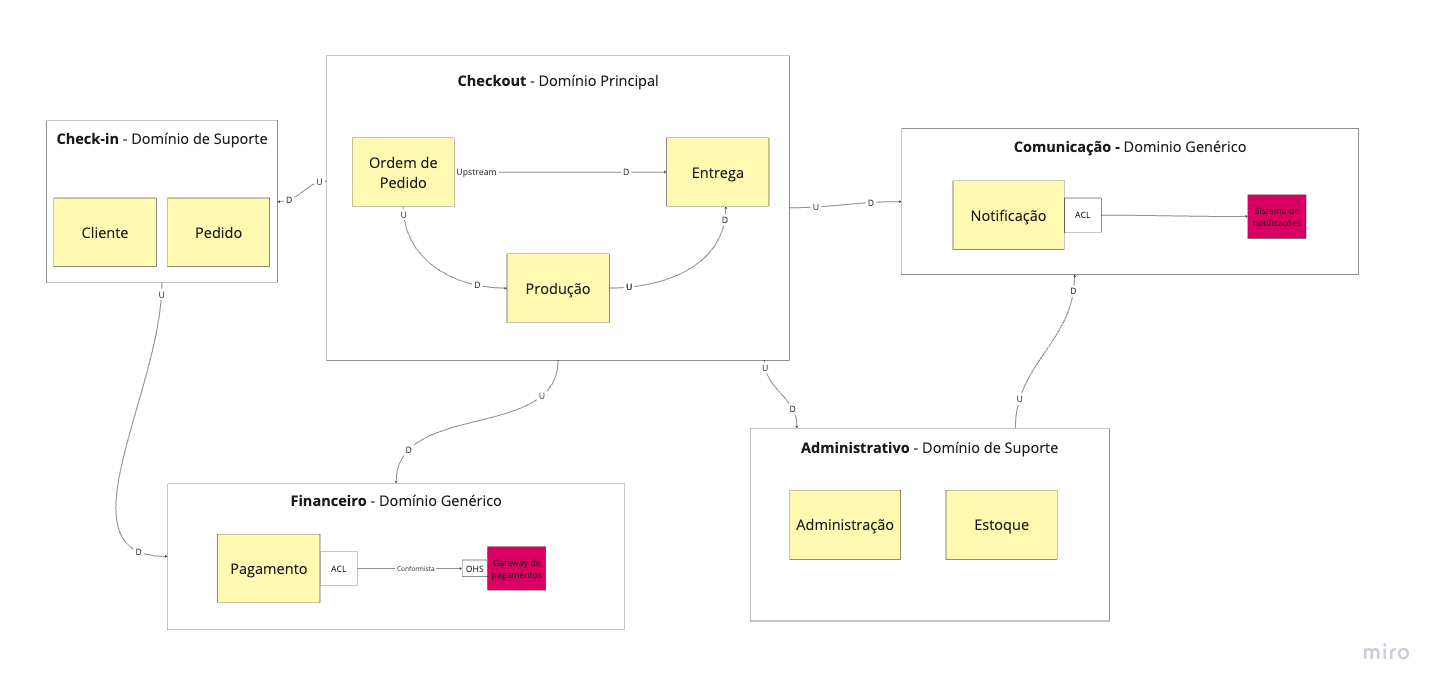
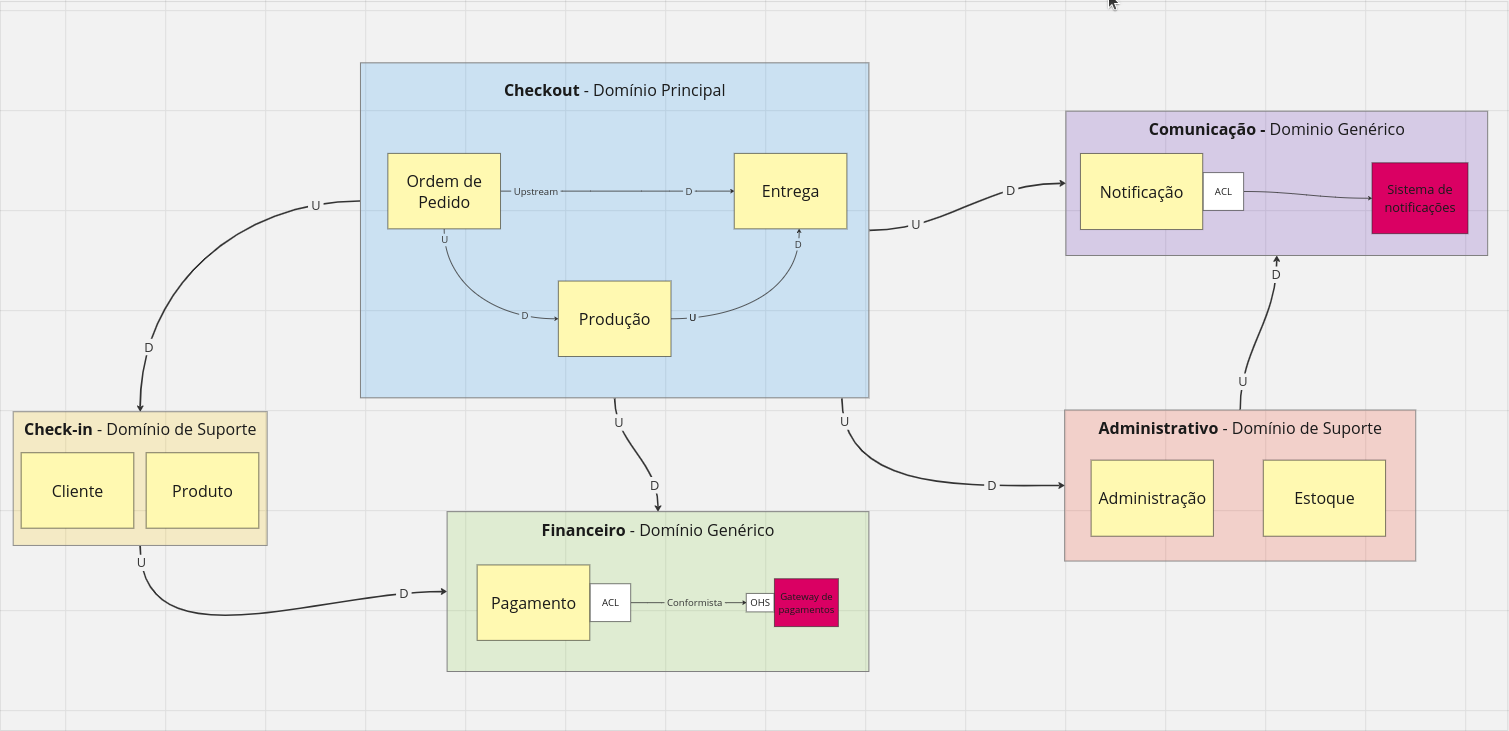
docs: add diagrams on readme

diff --git a/README.md b/README.md
@@ -1,4 +1,4 @@
-<h1 align="center">Orderly API</h1>
+<h1 align="center">Orderly</h1>
 
 <p align="center">
   <a href="#-project">Project</a>&nbsp;&nbsp;&nbsp;|&nbsp;&nbsp;&nbsp;
@@ -15,7 +15,8 @@
 
 ## 💻 Project
 
-Orderly API is a cutting-edge web API designed to streamline operations for restaurant and food businesses (RMS). It draws from the principles of **Domain-Driven Design (DDD)** and **Hexagonal Architecture** to ensure scalability, maintainability, and a robust integration capability.
+
+Orderly is a cutting-edge web system designed to streamline operations for restaurant and food businesses (RMS). It draws from the principles of **Domain-Driven Design (DDD)** and **Architectural Concepts** to ensure scalability, maintainability, and a robust integration capability.
 
 ## ✨ Technologies
 
@@ -26,6 +27,7 @@ This project was built using the following technologies and architectural concep
 - [Docker](https://www.docker.com/)
 - [DDD (Domain-driven Design)](https://domainlanguage.com/)
 - [Hexagonal Architecture](<https://en.wikipedia.org/wiki/Hexagonal_architecture_(software)>)
+- [Clean Architecture](<https://blog.cleancoder.com/uncle-bob/2012/08/13/the-clean-architecture.html>)
 - [Kubernetes](<https://kubernetes.io/>)
 
 ## 🟢 Running
@@ -61,14 +63,12 @@ Once it's up, the Swagger documentation can be accessed at `http://localhost:300
 
 Prerequisites: Ensure you have a tool for running local Kubernetes clusters installed.
 
-## Running kubernetes
+## Running on kubernetes
 
 ```bash
 # create namespace orderly
 $ kubectl create ns orderly
 
-# set orderly namespace to default (IN GCP)
-$ kubens orderly
 # set orderly namespace to default with kubectl
 $ kubectl config set-context --current --namespace=orderly
 
@@ -82,37 +82,21 @@ $ kubectl apply -f k8s/db
 $ kubectl apply -f k8s/api
 ```
 
-### Kubernetes Architecture on GCP
-
-<div align="center">
-  <img src="./.github/k8s-gcp.png" alt="K8S Diagram on GoogleCloud"  width="700"/>
-</div>
-
-### Kubernetes Architecture local
-
   
-⚠ **Wait** until the pods are ready, you can see the process with this command: ``` sudo kubectl get pods -o wide ```
+⚠ **Wait** until the pods are ready, you can see the process with this command: ``` kubectl get pods -o wide --watch ```
 
-📌 To get the port you can use this command: ``` sudo kubectl get svc -o wide ```
+📌 By default this will launch the application at port `30000`
 
-  - By default this will launch the application at port `30000`.
+📌 Get the INTERNAL-IP with command: ``` kubectl get nodes -o wide ```
 
-📌 Get the INTERNAL-IP with command: ``` sudo kubectl get nodes -o wide ```
+With the **INTERNAL-IP** the Swagger documentation can be accessed at `<INTERNAL-IP>:30000/`.
 
+<br>
 
-With the **INTERNAL-IP + api-service PORT** the Swagger documentation can be accessed at `<INTERNAL-IP>:30000/`.
-
-<div align="center">
-  <img src="./.github/k8s-local.png" alt="K8S Diagram"  width="700"/>
-</div>
-
-## Database ER Diagram
 
 <div align="center">
-  <img src="./.github/orderly-er-diagram.png" alt="ER Diagram" />
+  <h2>DDD (Domain-Driven Design)</h2>
 </div>
-
-## DDD (Domain-Driven Design)
 
 Domain-Driven Design (DDD) is an approach to developing software for complex needs by deeply connecting the implementation to an evolving model of the core business concepts. Here's a breakdown of how DDD principles have been applied in Orderly:
 
@@ -156,14 +140,101 @@ Domain-Driven Design (DDD) is an approach to developing software for complex nee
 ### Event Storming
 
 <div align="center">
-  <img src="./.github/event-storming.png" alt="Event Storming" />
+  <img src="./.github/event-storming.png" alt="Event Storming" style="border-radius:10px;"/>
 </div>
 
-### Context Map
+
+## Context Map
+
+<p align="center">
+  <a target="blank"><img src="./.github/context-map.png" width="1000" alt="DDD Context Map" style="border-radius:10px;" /></a>
+</p>
+
+<br>
+<div align="center">
+  <h2>Use cases</h2>
+</div>
+
+#### - Labels
+
+<p align="center">
+  <a target="blank"><img src="./.github/labels.png" width="800" alt="Legend" style="border-radius:10px;" /></a>
+</p>
+
+### - Check-in
+
+<p align="center">
+  <a target="blank"><img src="./.github/checkin-usecase.png" height="400" alt="Create order Usecase" style="border-radius:10px;" /></a>
+</p>
+
+### - Create order
+
+<p align="center">
+  <a target="blank"><img src="./.github/create-order-usecase.png" width="1000" alt="Create order Usecase" style="border-radius:10px;" /></a>
+</p>
+
+### - Pay order
+
+<p align="center">
+  <a target="blank"><img src="./.github/approve-payment-usecase.png" width="1000" alt="Pay order Usecase" style="border-radius:10px;" /></a>
+</p>
+
+### - Prepare order
+
+<p align="center">
+  <a target="blank"><img src="./.github/prepare-order-usecase.png" width="1000" alt="Prepare order Usecase" style="border-radius:10px;" /></a>
+</p>
+
+### - Withdrawn order
+
+<p align="center">
+  <a target="blank"><img src="./.github/withdrawn-order-usecase.png" width="1000" alt="Withdrawn order Usecase" style="border-radius:10px;" /></a>
+</p>
+
+<br>
 
 <div align="center">
-  <img src="./.github/context-map.png" alt="Context Map" />
+  <h2>Clean Architecture</h2>
 </div>
+
+<p align="center">
+  <a target="blank"><img src="./.github/clean-arch.png" width="1200" alt="Legend" style="border-radius:10px;" /></a>
+</p>
+
+
+<br>
+
+<div align="center">
+  <h2>Kubernetes Diagram - Infrastructure</h2>
+</div>
+
+### Cloud - Google Cloud Platform
+
+<p align="center">
+  <a target="blank"><img src="./.github/k8s-cloud.png" width="700" alt="Kubernetes diagram on google cloud platform" style="border-radius:10px;" /></a>
+</p>
+
+### Local - Docker Hub
+
+<p align="center">
+  <a target="blank"><img src="./.github/k8s-local.png" width="700" alt="Kubernetes local diagram" style="border-radius:10px;" /></a>
+</p>
+
+<br>
+
+
+
+<div align="center">
+  <h2>Entity Relationship Diagram - Database</h2>
+</div>
+
+<div align="center">
+  <img src="./.github/er-diagram.png" alt="ER Diagram" />
+</div>
+
+<br>
+
+<br> 
 
 ## 📝 License
 
